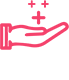
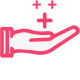
dev: Update advantage desktop styles

diff --git a/index.html b/index.html
@@ -72,20 +72,39 @@
     <!-- company advantage -->
     <div class="advantage text-center">
       <ul class="advantage__list">
-        <li class="align-top">
-          <img src="./img/advantage-1.png" alt="populstay-advantage-1">
+        <li class="align-top text-center advantage__item">
+          <i class="advantage__icon">
+            <img src="./img/advantage-1.png" alt="populstay-advantage-1">
+          </i>
+          <label>Our Benefits</label>
         </li>
-        <li class="align-top">
-          <img src="./img/advantage-2.png" alt="populstay-advantage-2">
+        <li class="align-top text-center advantage__item">
+          <i class="advantage__icon">
+            <img src="./img/advantage-2.png" alt="populstay-advantage-2">
+          </i>
+          <label>Decentralized Platform </label>
+          <span>No middleman</span>
         </li>
-        <li class="align-top">
-          <img src="./img/advantage-3.png" alt="populstay-advantage-3">
+        <li class="align-top text-center advantage__item">
+          <i class="advantage__icon">
+            <img src="./img/advantage-3.png" alt="populstay-advantage-3">
+          </i>
+          <label>Machine Trust</label>
+          <span>Defined by smart contracts</span>
         </li>
-        <li class="align-top">
-          <img src="./img/advantage-4.png" alt="populstay-advantage-4">
+        <li class="align-top text-center advantage__item">
+          <i class="advantage__icon">
+            <img src="./img/advantage-4.png" alt="populstay-advantage-4">
+          </i>
+          <label>Decentralized Autonomous<br />Organization</label>
+          <span>Operate more efficiently</span>
         </li>
-        <li class="align-top">
-          <img src="./img/advantage-logo.png" alt="populstay-advantage-5">
+        <li class="align-top text-center advantage__logo advantage__item">
+          <i class="advantage__icon">
+            <img src="./img/advantage-logo.png" alt="populstay-advantage-5">
+          </i>
+          <label></label>
+          <span></span>
         </li>
       </ul>
     </div>
@@ -197,7 +216,7 @@
               Jeffrey Wernick, Ph.D. in Economics and Finance at the University of Chicago,
               and Quantum Chain Consultant, is said to be the second person in the world to hold Bitcoin and... <a class="blog__view-more-btn" click="">view full story</a>
             </p>
-  
+
             <ul class="blog__feedback">
               <li class="blog__feedback-list"><span class="blog__feedback-title">PopulStay.</span> 2nd of June</span></li>
               <li class="blog__feedback-list">

diff --git a/css/main.css b/css/main.css
@@ -5,6 +5,9 @@
   box-sizing: border-box;
   font-size: 14px; }
 
+body {
+  margin: 0; }
+
 ul {
   list-style: none;
   padding-left: 0;
@@ -22,6 +25,12 @@ h3 {
 
 p {
   line-height: 1.4em; }
+
+label {
+  font-size: 14px; }
+
+span {
+  font-size: 12px; }
 
 a {
   text-decoration: none;
@@ -105,12 +114,75 @@ a {
     font-weight: 200; }
 
 .advantage {
-  padding: 30px 10px;
+  padding: 45px 10px 30px;
+  color: #555;
   background: #f7f7f7; }
-  .advantage__list li {
-    display: inline-block; }
-  .advantage__list img {
-    max-height: 50px; }
+  .advantage__list {
+    font-size: 0; }
+    .advantage__list img {
+      position: relative;
+      height: inherit;
+      z-index: 1; }
+    .advantage__list label {
+      display: block;
+      font-weight: bold; }
+    .advantage__list span {
+      font-weight: 300; }
+  .advantage__item {
+    position: relative;
+    display: inline-block;
+    padding-right: 15px; }
+  .advantage__item:first-child {
+    padding-right: 30px; }
+    .advantage__item:first-child .advantage__icon:before {
+      width: 30%;
+      left: auto;
+      right: 0; }
+    .advantage__item:first-child .advantage__icon:after {
+      right: -15px; }
+  .advantage__icon {
+    display: block;
+    margin-bottom: 14px;
+    height: 48px; }
+    .advantage__icon:before, .advantage__icon:after {
+      content: "";
+      position: absolute;
+      left: 0;
+      display: inline-block;
+      height: 1px;
+      width: 100%;
+      background-color: #555;
+      transform: translateY(24px);
+      -webkit-transform: translateY(24px);
+      -moz-transform: translateY(24px);
+      -ms-transform: translateY(24px); }
+    .advantage__icon:after {
+      top: -4px;
+      left: auto;
+      right: 15px;
+      height: 10px;
+      width: 10px;
+      border-radius: 50%; }
+  .advantage__logo {
+    padding-right: 0; }
+  .advantage__logo .advantage__icon {
+    padding-left: 40px;
+    height: 80px; }
+    .advantage__logo .advantage__icon img {
+      transform: translateY(-10%);
+      -webkit-transform: translateY(-10%);
+      -moz-transform: translateY(-10%);
+      -ms-transform: translateY(-10%); }
+    .advantage__logo .advantage__icon:before {
+      width: 10%; }
+    .advantage__logo .advantage__icon:after {
+      top: -7px;
+      left: 4%;
+      right: auto;
+      height: 8px;
+      width: 8px;
+      border: 4px solid #151b4e;
+      background-color: #f5426c; }
 
 .story__content {
   width: 960px;

diff --git a/styles/_section-advantage.scss b/styles/_section-advantage.scss
@@ -1,14 +1,104 @@
 .advantage {
-	padding: 30px 10px;
+	padding: 45px 10px 30px;
+	color: $gray;
 	background: $lightter-gray;
 
 	&__list {
-		li {
-			display: inline-block;
+		font-size: 0;
+		img {
+			position: relative;
+			height: inherit;
+			z-index: 1;
 		}
 
+		label {
+			display: block;
+			font-weight: bold;
+		}
+
+		span {
+			font-weight: $font-wight-normal;
+		}
+	}
+
+	&__item {
+		position: relative;
+		display: inline-block;
+		padding-right: 15px;
+	}
+
+	&__item:first-child {
+		padding-right: 30px;
+
+		.advantage__icon:before {
+			width: 30%;
+			left: auto;
+			right: 0;
+		}
+
+		.advantage__icon:after {
+			right: -15px;
+		}
+	}
+
+	&__icon {
+		display: block;
+		margin-bottom: 14px;
+		height: 48px;
+
+		&:before,
+		&:after {
+			content: "";
+			position: absolute;
+			left: 0;
+			display: inline-block;
+			height: 1px;
+			width: 100%;
+			background-color: $gray;
+
+			transform: translateY(24px);
+			-webkit-transform: translateY(24px);
+			-moz-transform: translateY(24px);
+			-ms-transform: translateY(24px);
+		}
+
+		&:after {
+			top: -4px;
+			left: auto;
+			right: 15px;
+			height: 10px;
+			width: 10px;
+			border-radius: 50%;
+		}
+	}
+
+	&__logo {
+		padding-right: 0;
+	}
+
+	&__logo &__icon {
+		padding-left: 40px;
+		height: 80px;
+
 		img {
-			max-height: 50px;
+			transform: translateY(-10%);
+			-webkit-transform: translateY(-10%);
+			-moz-transform: translateY(-10%);
+			-ms-transform: translateY(-10%);
+		}
+
+		&:before {
+			width: 10%;
+		}
+
+		&:after {
+			top: -7px;
+			left: 4%;
+			right: auto;
+			height: 8px;
+			width: 8px;
+			border: 4px solid $blue;
+			background-color: $pink;
 		}
 	}
 }

diff --git a/styles/main.scss b/styles/main.scss
@@ -3,7 +3,11 @@
 * {
 	font-family: "Helvetica Neue", Helvetica, "Hiragino Sans GB", "Microsoft YaHei", "Noto Sans CJK SC", "WenQuanYi Micro Hei", Arial, sans-serif;
 	box-sizing: border-box;
-	font-size: 14px;
+	font-size: $main-font;
+}
+
+body {
+	margin: 0;
 }
 
 ul {
@@ -18,16 +22,24 @@ button {
 }
 
 h2 {
-	font-size: 24px;
+	font-size: $title-big-font;
 }
 
 
 h3 {
-	font-size: 20px;
+	font-size: $title-font;
 }
 
 p {
 	line-height: 1.4em;
+}
+
+label {
+	font-size: $main-font;
+}
+
+span {
+	font-size: $small-font;
 }
 
 a {

diff --git a/styles/_var.scss b/styles/_var.scss
@@ -3,6 +3,7 @@ $main-font: 14px;
 $big-font: 16px;
 $bigger-font: 18px;
 $title-font: 20px;
+$title-big-font: 24px;
 
 $font-wight-normal: 300;
 $font-weight-light: 200;
